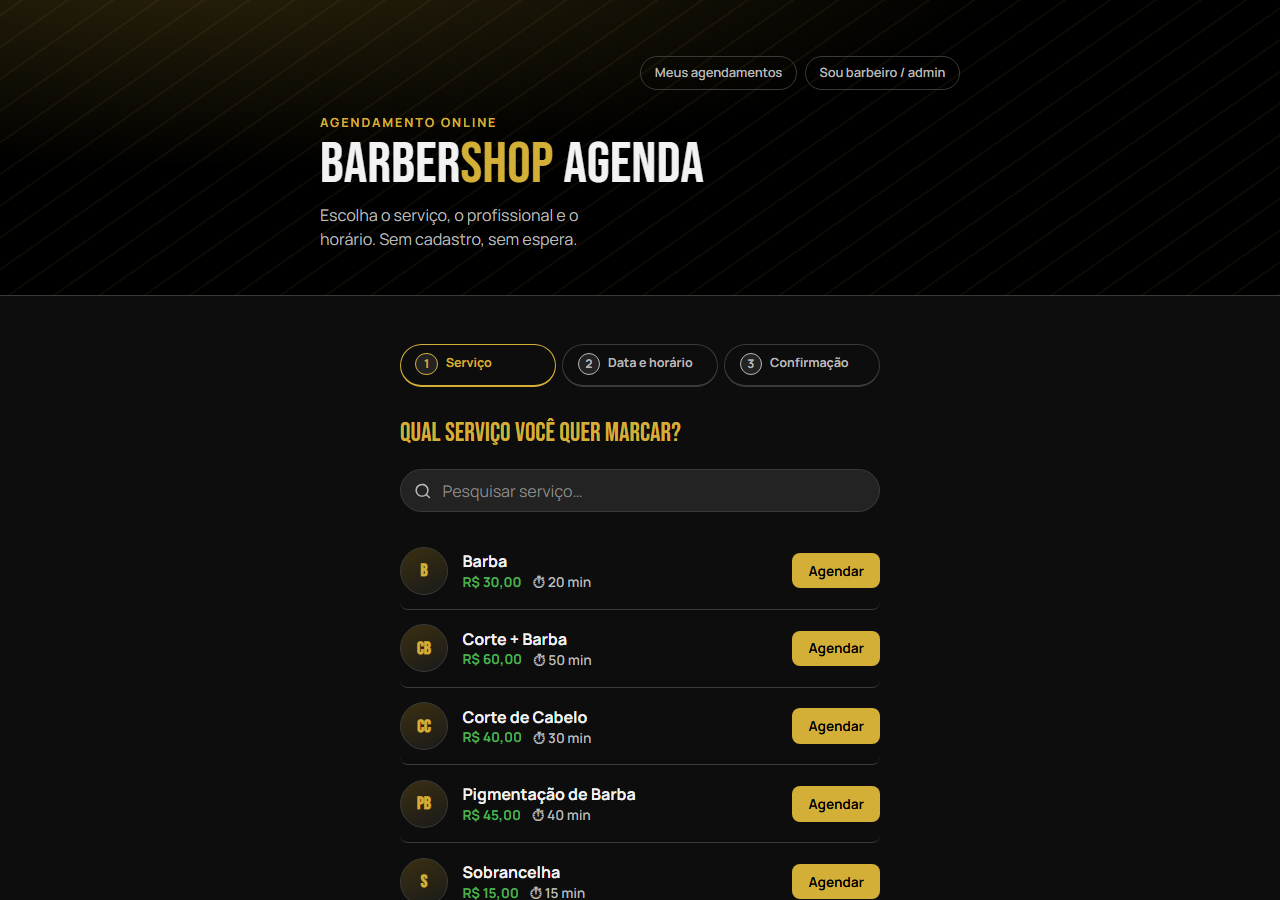
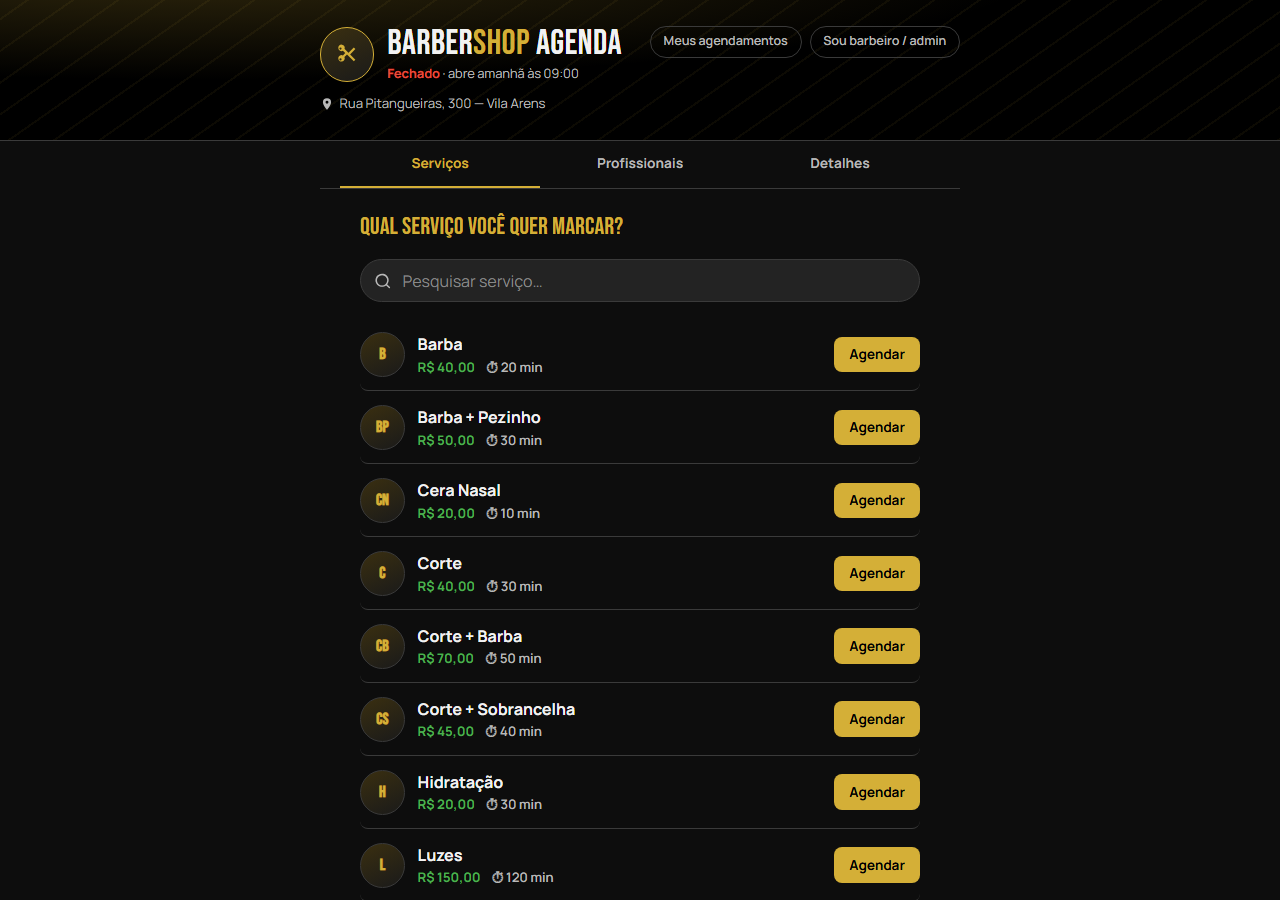
Atualiza o README com o estado atual do sistema
- Screenshots refeitos (a tela de agendamento mudou) e três novas
  imagens da versão mobile, que é o foco do fluxo do cliente.
- Nova seção de Segurança, listando como cada risco é tratado.
- Funcionalidades do cliente atualizadas: abas, status aberto/fechado,
  expediente reduzido de sábado, adicionar na agenda e traçar rota.
- Tabela de endpoints refletindo que barbeiro só acessa a própria
  agenda, que o catálogo público não devolve e-mail de login e os
  limites de requisição por IP.
- Contagem de serviços do seed (5 -> 13), de testes (24) e um caso de
  HTTP 429 na tabela de problemas comuns.

diff --git a/README.md b/README.md
@@ -31,6 +31,14 @@ O sistema tem como objetivo **facilitar o agendamento de serviços**, tornando a
 
 ## 📸 Screenshots
 
+**No celular** — a maior parte dos agendamentos vem do telefone, então o fluxo do cliente foi desenhado primeiro para essa tela:
+
+| Serviços | Detalhes da barbearia | Escolha de horário |
+|---|---|---|
+| ![Lista de serviços no celular](docs/screenshots/mobile-servicos.png) | ![Endereço e horário de funcionamento](docs/screenshots/mobile-detalhes.png) | ![Escolha de data, profissional e horário](docs/screenshots/mobile-horarios.png) |
+
+**No computador**
+
 | Agendamento (Cliente) | Login |
 |---|---|
 | ![Fluxo de agendamento](docs/screenshots/agendar.png) | ![Tela de login](docs/screenshots/login.png) |
@@ -45,8 +53,10 @@ O sistema tem como objetivo **facilitar o agendamento de serviços**, tornando a
 
 **Cliente (público, sem cadastro obrigatório)**
 - Agendamento online em poucos passos: escolhe serviço, profissional, data e horário — sem precisar criar conta.
-- Grade de horários calculada automaticamente a partir da agenda de cada barbeiro (manhã/tarde), já excluindo horários ocupados, passados e períodos de férias/ausência.
+- Interface pensada para o celular: cabeçalho com identidade da barbearia e status **"aberto agora / fechado"** calculado na hora, abas **Serviços / Profissionais / Detalhes**, e confirmação em *bottom sheet* com o botão sempre à vista.
+- Grade de horários calculada automaticamente a partir da agenda de cada barbeiro (manhã/tarde), já excluindo horários ocupados, passados, períodos de férias/ausência e o expediente reduzido de sábado.
 - Confirmação por e-mail com código de 6 dígitos, usado para consultar os próprios agendamentos depois (sem senha).
+- Ao final do agendamento: resumo da reserva, atalho para **adicionar na agenda do celular** (Google Agenda) e para **traçar rota** até a barbearia.
 - Conta opcional (`criar-conta.html`) com verificação de e-mail e recuperação de senha, pra quem preferir ter um histórico permanente sem depender do código.
 
 **Barbeiro**
@@ -108,7 +118,7 @@ cd PJI240-A2026S2N3-Grupo12-BarberShopAgenda
 docker-compose up -d mysql
 ```
 
-Isso cria o container MySQL 8.0, o banco `barbershop_agenda` e aplica `database/schema.sql` automaticamente (tabelas + seeds: 3 barbeiros, 5 serviços e as contas iniciais de admin/barbeiro).
+Isso cria o container MySQL 8.0, o banco `barbershop_agenda` e aplica `database/schema.sql` automaticamente (tabelas + seeds: 3 barbeiros, 13 serviços e as contas iniciais de admin/barbeiro).
 
 **3. Rode a API**
 ```bash
@@ -162,7 +172,7 @@ MYSQL_DATABASE=barbershop_agenda
 mysql -u root -p < database/schema.sql
 ```
 
-Isso cria as tabelas e os dados iniciais (3 barbeiros, 5 serviços, contas de admin e barbeiro — veja a seção [Autenticação](#-autenticação)). Alternativamente, o schema também pode ser criado via **migrations do EF Core** (passo 3).
+Isso cria as tabelas e os dados iniciais (3 barbeiros, 13 serviços, contas de admin e barbeiro — veja a seção [Autenticação](#-autenticação)). Alternativamente, o schema também pode ser criado via **migrations do EF Core** (passo 3).
 
 ## 2. Configurar a connection string
 
@@ -229,7 +239,7 @@ Se a URL/porta da API não for `https://localhost:7001/api`, ajuste antes de car
 dotnet test
 ```
 
-Cobrem: criação de agendamento válido, conflito de horário por barbeiro e por cliente, cancelamento, listagem por data, cálculo de horários disponíveis (incluindo período de férias), autenticação (login válido/inválido/e-mail não confirmado), troca de senha, e o ciclo completo de conta de cliente (registro, vínculo ao histórico de convidado, confirmação de e-mail, redefinição de senha).
+São 24 testes cobrindo: criação de agendamento válido, conflito de horário por barbeiro e por cliente, cancelamento, listagem por data, cálculo de horários disponíveis (incluindo período de férias e o expediente reduzido de sábado), autenticação (login válido/inválido/e-mail não confirmado), troca de senha, e o ciclo completo de conta de cliente (registro, vínculo ao histórico de convidado, confirmação de e-mail, redefinição de senha).
 
 ---
 
@@ -244,6 +254,7 @@ Cobrem: criação de agendamento válido, conflito de horário por barbeiro e po
 | `Chave JWT não configurada` / `Connection string não configurada` ao rodar a API | Faltou configurar `Jwt:Key` / `ConnectionStrings:DefaultConnection` (ou as variáveis de ambiente equivalentes) | Veja as seções [2](#2-configurar-a-connection-string) e [Autenticação](#-autenticação) |
 | Tela de admin/barbeiro fica "piscando" entre páginas | Sessão de um papel tentando acessar página de outro papel (bug corrigido) | Dê um hard refresh (`Ctrl+Shift+R`) pra garantir que está com os arquivos JS mais recentes |
 | Mudança no frontend não aparece no navegador | Cache do navegador | Hard refresh (`Ctrl+Shift+R`) ou aba anônima |
+| `Muitas tentativas em pouco tempo` (HTTP 429) | Rate limit por IP (10 logins/5 min; 20 escritas públicas/5 min) | Aguarde alguns minutos — é a proteção contra força bruta funcionando |
 
 ---
 
@@ -260,11 +271,12 @@ BarberShopAgenda/
 │   └── appsettings.Development.json Configuração local de desenvolvimento
 ├── BarberShopAgenda.Domain/         Entidades e interfaces (contratos)
 │   ├── Entities/                    Cliente, Barbeiro, Servico, Agendamento, Usuario, PapelUsuario...
-│   └── Interfaces/                  Contratos de repositórios e serviços
+│   ├── Interfaces/                  Contratos de repositórios e serviços
+│   └── HorarioBrasil.cs             "Agora"/"hoje" no fuso do Brasil (o servidor roda em UTC)
 ├── BarberShopAgenda.Infrastructure/ Implementação: EF Core, repositórios, serviços de negócio
-│   ├── Data/                        BarberShopContext (DbContext)
+│   ├── Data/                        BarberShopContext (DbContext) + interceptor de charset utf8mb4
 │   ├── Repositories/                Implementação dos repositórios
-│   ├── Services/                    Auth, ClienteConta, Agendamento, HorarioDisponivel, Email (SMTP)...
+│   ├── Services/                    Auth, ClienteConta, Agendamento, HorarioDisponivel, Email (Brevo)...
 │   └── Migrations/                  Migrations do EF Core
 ├── BarberShopAgenda.Tests/          Testes xUnit
 │   └── Services/                    Testes dos serviços de domínio
@@ -274,7 +286,7 @@ BarberShopAgenda/
 │   ├── clientes.html                CRUD de clientes (Admin)
 │   ├── barbeiros.html               CRUD de barbeiros + conta + férias (Admin)
 │   ├── servicos.html                CRUD de serviços (Admin)
-│   ├── agendar.html                 Fluxo público de agendamento (Cliente)
+│   ├── agendar.html                 Fluxo público de agendamento (Cliente) — abas Serviços/Profissionais/Detalhes
 │   ├── meus-agendamentos.html       Consulta por telefone + código (Cliente, sem conta)
 │   ├── login.html                   Login (Admin, Barbeiro ou Cliente)
 │   ├── criar-conta.html             Criação de conta de cliente
@@ -286,6 +298,7 @@ BarberShopAgenda/
 │   ├── css/                         style.css (tema/base) + agendar.css (fluxo do cliente)
 │   └── js/                          config.js (URL da API) + api.js (fetch) + auth.js (sessão/JWT) + 1 script por página
 ├── database/schema.sql              Script SQL de criação e seeds (alternativa às migrations)
+├── docs/screenshots/                Imagens usadas neste README
 ├── Dockerfile                       Build multi-stage da API
 ├── docker-compose.yml               Orquestração API + MySQL
 ├── .github/workflows/deploy-pages.yml  Publica frontend/ no GitHub Pages a cada push
@@ -321,6 +334,27 @@ Em produção, defina a chave de assinatura do JWT via variável de ambiente `BA
 
 ---
 
+## 🛡 Segurança
+
+Medidas aplicadas no projeto, com o item correspondente do OWASP entre parênteses:
+
+| Risco | Como é tratado |
+|---|---|
+| Senhas (*Cryptographic Failures*) | Hash com salt via `PasswordHasher` (PBKDF2) — nunca em texto puro. Mínimo de 8 caracteres |
+| Injeção de SQL (*Injection*) | Todo acesso a dados passa pelo EF Core com parâmetros; não há SQL concatenado |
+| Quebra de controle de acesso / IDOR | Cada barbeiro só lê e altera agendamentos da própria agenda; cliente autenticado só acessa o próprio histórico (id vem do token, nunca da URL) |
+| Consulta sem login ("Meus agendamentos") | Exige telefone **+** código de confirmação, com a mesma mensagem genérica nos dois tipos de falha (não revela se o telefone existe) |
+| Exposição de dados sensíveis | O catálogo público de barbeiros não devolve e-mail de login nem situação da conta; o autocadastro de cliente devolve só o id e não altera cadastro existente |
+| Força bruta e flood | Rate limit por IP: 10 tentativas/5 min em login e recuperação de senha; 20/5 min nos endpoints públicos de escrita (`X-Forwarded-For` respeitado por causa do proxy) |
+| Mensagens de erro vazando detalhe | Erro não tratado responde mensagem genérica; o *stack trace* fica só no log do servidor |
+| CORS | Lista explícita de origens permitidas (`Cors:AllowedOrigins`), sem curinga |
+| Segredos no repositório | Connection string, chave JWT e chave da Brevo só em variável de ambiente; `.env` no `.gitignore` |
+| Dependências vulneráveis | Verificado com `dotnet list package --vulnerable` |
+
+Não se aplicam ao escopo atual: CSRF (o token vai no header `Authorization`, não em cookie), upload de arquivos (não existe) e SSRF (a única chamada externa é uma URL fixa da Brevo).
+
+---
+
 ## 📧 E-mail transacional (opcional)
 
 A API envia e-mails automaticamente (confirmação de agendamento com código, verificação de conta, redefinição de senha) pela **API HTTP transacional da Brevo** — sem custo (300 e-mails/dia grátis). Se a chave não estiver configurada, tudo continua funcionando normalmente, só não envia o e-mail (fica um aviso no log).
@@ -350,7 +384,7 @@ Configurado em `appsettings.json`/`appsettings.Development.json`:
 
 | Recurso | Método | Rota | Acesso |
 |---|---|---|---|
-| Auth | POST | `/api/auth/login` | Público |
+| Auth | POST | `/api/auth/login` | Público (limitado a 10 tentativas/5 min por IP) |
 | Auth | POST | `/api/auth/registrar` | Público (cria conta de cliente) |
 | Auth | POST | `/api/auth/confirmar-email` | Público |
 | Auth | POST | `/api/auth/esqueci-senha` | Público |
@@ -358,30 +392,30 @@ Configurado em `appsettings.json`/`appsettings.Development.json`:
 | Auth | PUT | `/api/auth/senha` | Qualquer autenticado (troca a própria senha) |
 | Clientes | GET | `/api/clientes` | Admin |
 | Clientes | GET | `/api/clientes/{id}` | Admin |
-| Clientes | POST | `/api/clientes` | Público (autocadastro no agendamento) |
+| Clientes | POST | `/api/clientes` | Público (autocadastro no agendamento; devolve só o id; 20/5 min por IP) |
 | Clientes | PUT | `/api/clientes/{id}` | Admin |
 | Clientes | DELETE | `/api/clientes/{id}` | Admin |
-| Barbeiros | GET | `/api/barbeiros` | Público (catálogo — só quem tem conta ativa ou não tem conta) |
-| Barbeiros | GET | `/api/barbeiros/todos` | Admin (todos, inclusive conta inativa) |
+| Barbeiros | GET | `/api/barbeiros` | Público (catálogo — sem e-mail de login; só quem tem conta ativa ou não tem conta) |
+| Barbeiros | GET | `/api/barbeiros/todos` | Admin (todos, inclusive conta inativa, com e-mail de login) |
 | Barbeiros | GET | `/api/barbeiros/{id}` | Público |
 | Barbeiros | POST | `/api/barbeiros` | Admin (já cria a conta de login) |
-| Barbeiros | PUT | `/api/barbeiros/{id}` | Admin (agenda, especialidade, férias) |
+| Barbeiros | PUT | `/api/barbeiros/{id}` | Admin (agenda, especialidade, férias, fim de expediente no sábado) |
 | Barbeiros | PUT | `/api/barbeiros/{id}/conta/ativar` | Admin |
 | Barbeiros | PUT | `/api/barbeiros/{id}/conta/inativar` | Admin |
 | Serviços | GET | `/api/servicos` | Público (catálogo) |
 | Serviços | POST | `/api/servicos` | Admin |
 | Serviços | PUT | `/api/servicos/{id}` | Admin |
 | Horários | GET | `/api/horarios/disponiveis?barbeiroId=&data=&servicoId=` | Público |
-| Agendamentos | GET | `/api/agendamentos` | Admin, Barbeiro |
-| Agendamentos | GET | `/api/agendamentos/{id}` | Admin, Barbeiro |
+| Agendamentos | GET | `/api/agendamentos` | Admin (todos), Barbeiro (só a própria agenda) |
+| Agendamentos | GET | `/api/agendamentos/{id}` | Admin, Barbeiro (só a própria agenda) |
 | Agendamentos | GET | `/api/agendamentos/barbeiro/{barbeiroId}` | Admin, Barbeiro (só a própria agenda) |
 | Agendamentos | GET | `/api/agendamentos/cliente?telefone=&codigo=` | Público (telefone + código de confirmação) |
 | Agendamentos | GET | `/api/agendamentos/me` | Cliente autenticado |
-| Agendamentos | GET | `/api/agendamentos/data/{data}` (formato `yyyy-MM-dd`) | Admin, Barbeiro |
-| Agendamentos | POST | `/api/agendamentos` | Público (fluxo de agendamento do cliente) |
-| Agendamentos | PUT | `/api/agendamentos/{id}/confirmar` | Admin, Barbeiro |
-| Agendamentos | PUT | `/api/agendamentos/{id}/cancelar` | Admin, Barbeiro |
-| Agendamentos | PUT | `/api/agendamentos/{id}/concluir` | Admin, Barbeiro |
+| Agendamentos | GET | `/api/agendamentos/data/{data}` (formato `yyyy-MM-dd`) | Admin (todos), Barbeiro (só a própria agenda) |
+| Agendamentos | POST | `/api/agendamentos` | Público (fluxo de agendamento do cliente; 20/5 min por IP) |
+| Agendamentos | PUT | `/api/agendamentos/{id}/confirmar` | Admin, Barbeiro (só a própria agenda) |
+| Agendamentos | PUT | `/api/agendamentos/{id}/cancelar` | Admin, Barbeiro (só a própria agenda) |
+| Agendamentos | PUT | `/api/agendamentos/{id}/concluir` | Admin, Barbeiro (só a própria agenda) |
 | Dashboard | GET | `/api/dashboard/hoje` | Admin |
 
 ---
